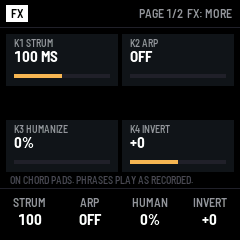
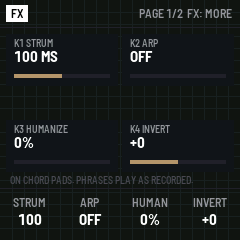
CORE in the Earth Science look
Every screen on graph paper in lab grey; amber becomes Earth, teal Water,
red Fire. SURFACE's lab_paper is now everyone's (lab_begin).

Claude-Session: https://claude.ai/code/session_011auXBbJuCRdHVG1fENKT8m

diff --git a/app/app.c b/app/app.c
@@ -2767,8 +2767,25 @@ static void lights(void)
 /* the Earth Science elements: Earth #B5956B, Air #87CEEB, Fire #CD7F7F, Water #6BB6D6 */
 static const uint16_t EARTH_C = RGB(0xB5, 0x95, 0x6B), AIR_C = RGB(0x87, 0xCE, 0xEB), FIRE_C = RGB(0xCD, 0x7F, 0x7F),
                       WATER_C = RGB(0x6B, 0xB6, 0xD6);
-static const uint16_t AMBER = RGB(242, 181, 82), AMBER_DIM = RGB(122, 90, 46), TEAL = RGB(79, 179, 166),
-                      TEAL_DIM = RGB(31, 74, 69), REDC = RGB(224, 68, 60);
+/* CORE in the Earth Science palette too: what was amber (chords, the key, accents) is Earth, what was teal (phrases,
+ * slices) is Water, red (REC) is Fire */
+static const uint16_t AMBER = RGB(0xB5, 0x95, 0x6B), AMBER_DIM = RGB(78, 64, 46), TEAL = RGB(0x6B, 0xB6, 0xD6),
+                      TEAL_DIM = RGB(26, 56, 70), REDC = RGB(0xCD, 0x7F, 0x7F);
+/* the lab: graph paper on a dark lab grey, every screen */
+static const uint16_t LAB_BG = RGB(18, 20, 22), LAB_GRID = RGB(30, 34, 38), LAB_LABEL = RGB(110, 118, 124);
+static void lab_paper(void)              /* graph paper, every 12 px, on the band begun */
+{
+    int32_t k;
+    for (k = 12; k < 240; k += 12)
+        cv_rect(k, 0, 1, 120, LAB_GRID);
+    for (k = 12; k < 120; k += 12)
+        cv_rect(0, k, 240, 1, LAB_GRID);
+}
+static void lab_begin(void)              /* a band of the screen: lab grey, graph paper */
+{
+    cv_begin(240, 120, LAB_BG);
+    lab_paper();
+}
 
 static void deg_sign(int32_t x, int32_t y, uint16_t c)   /* a small degree sign: a 4 px ring */
 {
@@ -2822,7 +2839,7 @@ static void draw_home(void)
     const pad_t *p = ui.pad >= 0 ? &pads[ui.pad] : 0;
     int playing = p && ((ui.keys >> WK[ui.pad] & 1u) || pl[ui.pad].on);
 
-    cv_begin(240, 120, C_BLACK);
+    lab_begin();
     key_text(t);
     if (plat_ms() < ui.msg_until)
         top_bar(0, 0, 0);
@@ -2936,7 +2953,7 @@ static void draw_home(void)
     }
     cv_blit(0, 0);
 
-    cv_begin(240, 120, C_BLACK);
+    lab_begin();
     for (i = 0; i < 16u; i++) {
         int on = (int)(ui.keys >> WK[i] & 1u) || pl[i].on;
         uint16_t c = pads[i].type == PAD_PHRASE ? (on ? TEAL : TEAL_DIM)
@@ -2954,7 +2971,7 @@ static void draw_home(void)
             uint16_t on = lead ? AMBER : TEAL;
             cv_rect(cx, 28, 24, 20, lit ? on : nx ? on : C_LINE);
             if (nx)
-                cv_rect(cx + 2, 30, 20, 16, C_BLACK);   /* next: an outline */
+                cv_rect(cx + 2, 30, 20, 16, LAB_BG);   /* next: an outline */
             cv_text(cx + (24 - text_w(&FONT_XS, d)) / 2, 30, &FONT_XS, d, lit ? C_BLACK : nx ? on : C_GRAY);
         }
     }
@@ -3004,14 +3021,14 @@ static void draw_slice(void)
     char t[32];
     uint32_t i;
     int32_t x;
-    cv_begin(240, 120, C_BLACK);
+    lab_begin();
     top_bar("SLICE", cur_file >= 0 ? files[cur_file].name : "NO FILE", C_GRAY);
     if (!nsl) {
         cv_text(10, 50, &FONT_B, "NO SLICES", C_GRAY);
         cv_text(10, 72, &FONT_XS, "SLICE again: pick a file", C_DIM);
         cv_text(10, 88, &FONT_XS, "SYS: copy files over USB", C_DIM);
         cv_blit(0, 0);
-        cv_begin(240, 120, C_BLACK);
+        lab_begin();
         cv_blit(0, 120);
         return;
     }
@@ -3051,7 +3068,7 @@ static void draw_slice(void)
     }
     cv_blit(0, 0);
 
-    cv_begin(240, 120, C_BLACK);
+    lab_begin();
     for (x = 0; x < 240; x++) {          /* the waveform's lower half (rows 120 .. 127 of it) */
         uint32_t tt = wv_lo + (uint32_t)((uint32_t)wv_len * (uint32_t)x / 240u);
         int in = tt >= sl_s[sel] && tt < sl_e[sel];
@@ -3110,7 +3127,7 @@ static void draw_files(void)
 {
     char t[32];
     uint32_t i;
-    cv_begin(240, 120, C_BLACK);
+    lab_begin();
     {
         char kb[12];
         uint32_t f = fs_free_kb(), n = 0;
@@ -3140,7 +3157,7 @@ static void draw_files(void)
     }
     cv_blit(0, 0);
 
-    cv_begin(240, 120, C_BLACK);
+    lab_begin();
     cv_rect(0, 0, 240, 1, C_LINE);
     for (i = 0; i < ntrk && i < 4u; i++) {
         int32_t y = 4 + (int32_t)i * 15;
@@ -3180,12 +3197,12 @@ static void draw_files(void)
 static void draw_disk(void)
 {
     const char *st = ui.disk_state == PLAT_DISK_MOUNTED ? "CONNECTED" : "WAITING FOR A COMPUTER";
-    cv_begin(240, 120, C_BLACK);
+    lab_begin();
     top_bar("USB DRIVE", 0, 0);
     cv_text((240 - text_w(&FONT_M, "USB DRIVE")) / 2, 44, &FONT_M, "USB DRIVE", C_WHITE);
     cv_text((240 - text_w(&FONT_XS, st)) / 2, 82, &FONT_XS, st, ui.disk_state == PLAT_DISK_MOUNTED ? TEAL : AMBER);
     cv_blit(0, 0);
-    cv_begin(240, 120, C_BLACK);
+    lab_begin();
     cv_text(12, 4, &FONT_XS, "1  Connect USB to a computer.", C_GRAY);
     cv_text(12, 22, &FONT_XS, "2  Copy .mid files onto MPS-16.", C_GRAY);
     cv_text(12, 40, &FONT_XS, "3  Eject it. Files show in SLICE.", C_GRAY);

diff --git a/app/screens.c b/app/screens.c
@@ -7,7 +7,7 @@ static void draw_key(void)
     uint32_t i;
     int32_t x;
     const uint8_t *sc = SCALES[set.scale];
-    cv_begin(240, 120, C_BLACK);
+    lab_begin();
     top_bar("KEY", set.lock ? "LOCK ON" : "LOCK OFF", set.lock ? AMBER : C_GRAY);
     tonic_name(t);
     {
@@ -31,7 +31,7 @@ static void draw_key(void)
         (void)rn;
     }
     cv_blit(0, 0);
-    cv_begin(240, 120, C_BLACK);
+    lab_begin();
     for (i = 0; i < 7u; i++) {
         char rn[6];
         uint8_t dim;
@@ -75,7 +75,7 @@ static void fx_tile(int32_t x, int32_t y, const char *k, const char *name, const
 static void draw_fx(void)
 {
     char a[12], b[12], c[12], d[12];
-    cv_begin(240, 120, C_BLACK);
+    lab_begin();
     top_bar("FX", ui.fx_page ? "PAGE 2/2  FX: BACK" : "PAGE 1/2  FX: MORE", C_GRAY);
     if (!ui.fx_page) {
         num_text(set.strum * 2, a, 0);
@@ -90,7 +90,7 @@ static void draw_fx(void)
         fx_tile(122, 34, "K2", "BASS NOTE", set.bass ? "ON" : "OFF", set.bass ? 100 : 0);
     }
     cv_blit(0, 0);
-    cv_begin(240, 120, C_BLACK);
+    lab_begin();
     if (!ui.fx_page) {
         fx_tile(6, 0, "K3", "HUMANIZE", c, set.human * 2);
         fx_tile(122, 0, "K4", "INVERT", d, (set.inv + 3) * 100 / 6);
@@ -123,7 +123,7 @@ static void draw_lib(void)
     char t[24];
     uint32_t i, cnt = lib_count();
     int32_t first = lib_sel > 3u ? (int32_t)lib_sel - 3 : 0;
-    cv_begin(240, 120, C_BLACK);
+    lab_begin();
     key_text(t);
     text_cat(t, " ");
     text_cat(t, lib_grp ? RHY_NAME[lib_rhy] : CTYPE_NAME[lib_type]);
@@ -168,7 +168,7 @@ static void draw_lib(void)
         }
     }
     cv_blit(0, 0);
-    cv_begin(240, 120, C_BLACK);
+    lab_begin();
     cv_text(10, 4, &FONT_T, "SELECT: PICK AND HEAR    WHITE KEY: DROP ON PAD", C_DIM);
     cv_text(10, 20, &FONT_T, "K4: BUILD A WHOLE KIT (8 CHORDS, 8 PROGRESSIONS)", C_DIM);
     {
@@ -195,7 +195,7 @@ static void draw_trim(void)
     {
         char n[8] = "PAD ";
         num_text(ui.pad + 1, n + 4, 0);
-        cv_begin(240, 120, C_BLACK);
+        lab_begin();
         top_bar("TRIM", n, C_GRAY);
     }
     if (phrase) {
@@ -247,7 +247,7 @@ static void draw_trim(void)
     }
     cv_blit(0, 0);
 
-    cv_begin(240, 120, C_BLACK);
+    lab_begin();
     pad_title(p, t);
     cv_text(10, 4, &FONT_B, t, phrase ? TEAL : AMBER);
     if (phrase) {
@@ -280,7 +280,7 @@ static void draw_find(void)
     char t[24], v[4][12] = {"", "", "", "LIB"};
     uint32_t i;
     int32_t first = fd_sel > 2u ? (int32_t)fd_sel - 2 : 0, x = 10;
-    cv_begin(240, 120, C_BLACK);
+    lab_begin();
     str_set(t, "", sizeof t);
     num_text(fd_cnt, t, 0);
     text_cat(t, fd_cnt == 1u ? " KEY" : " KEYS");
@@ -290,7 +290,7 @@ static void draw_find(void)
         cv_text((240 - text_w(&FONT_XS, "ANY KEYS, WHITE OR BLACK")) / 2, 80, &FONT_XS, "ANY KEYS, WHITE OR BLACK",
                 C_GRAY);
         cv_blit(0, 0);
-        cv_begin(240, 120, C_BLACK);
+        lab_begin();
         bottom_bar(68, LBL, v);
         cv_blit(0, 120);
         return;
@@ -313,7 +313,7 @@ static void draw_find(void)
     }
     cv_blit(0, 0);
 
-    cv_begin(240, 120, C_BLACK);
+    lab_begin();
     if (fd_cnt) {                        /* the picked key's notes, the ones tapped lit */
         uint32_t e = fd_list[fd_sel], root = e >> 4, sc = e & 15u, l = letter_of(root, sc);
         for (i = 0; i < 7u; i++) {
@@ -335,15 +335,6 @@ static void draw_find(void)
 /* SURFACE (ORCHID in the code): the Earth Science look. Graph paper; the file as Water (the slices, the ruler of the
  * song, the pads); the knobs in their elements: K1 Water, K2 Earth (bass), K3 Air (above), K4 Fire (playing) */
 static const uint16_t ORCHID_C = RGB(0x6B, 0xB6, 0xD6), ORCHID_DIM = RGB(26, 56, 70);   /* Water */
-static const uint16_t LAB_BG = RGB(18, 20, 22), LAB_GRID = RGB(30, 34, 38), LAB_LABEL = RGB(110, 118, 124);
-static void lab_paper(void)              /* graph paper, every 12 px, on the band begun */
-{
-    int32_t k;
-    for (k = 12; k < 240; k += 12)
-        cv_rect(k, 0, 1, 120, LAB_GRID);
-    for (k = 12; k < 120; k += 12)
-        cv_rect(0, k, 240, 1, LAB_GRID);
-}
 static void draw_orchid(void)
 {
     static const char *const LBL[4] = {"START", "BLACK 7", "BLACK 4", "PLAY"};

diff --git a/app/guide.c b/app/guide.c
@@ -102,13 +102,13 @@ static void draw_guide(void)
     num_text((int32_t)ui.guide_pg + 1, pg, 0);
     text_cat(pg, "/");
     num_text((int32_t)NGUIDE, pg + cs_len(pg), 0);
-    cv_begin(240, 120, C_BLACK);
+    lab_begin();
     top_bar("GUIDE", pg, C_GRAY);
     cv_text(10, 32, &FONT_B, g->title, AMBER);
     for (i = 0; i < n && i < 3u; i++)
         cv_text(10, 66 + (int32_t)i * 16, &FONT_XS, ln[i], C_WHITE);
     cv_blit(0, 0);
-    cv_begin(240, 120, C_BLACK);
+    lab_begin();
     for (i = 3; i < n; i++)
         cv_text(10, 2 + (int32_t)(i - 3u) * 16, &FONT_XS, ln[i], C_WHITE);
     for (i = 0; i < NGUIDE; i++)         /* where you are */
